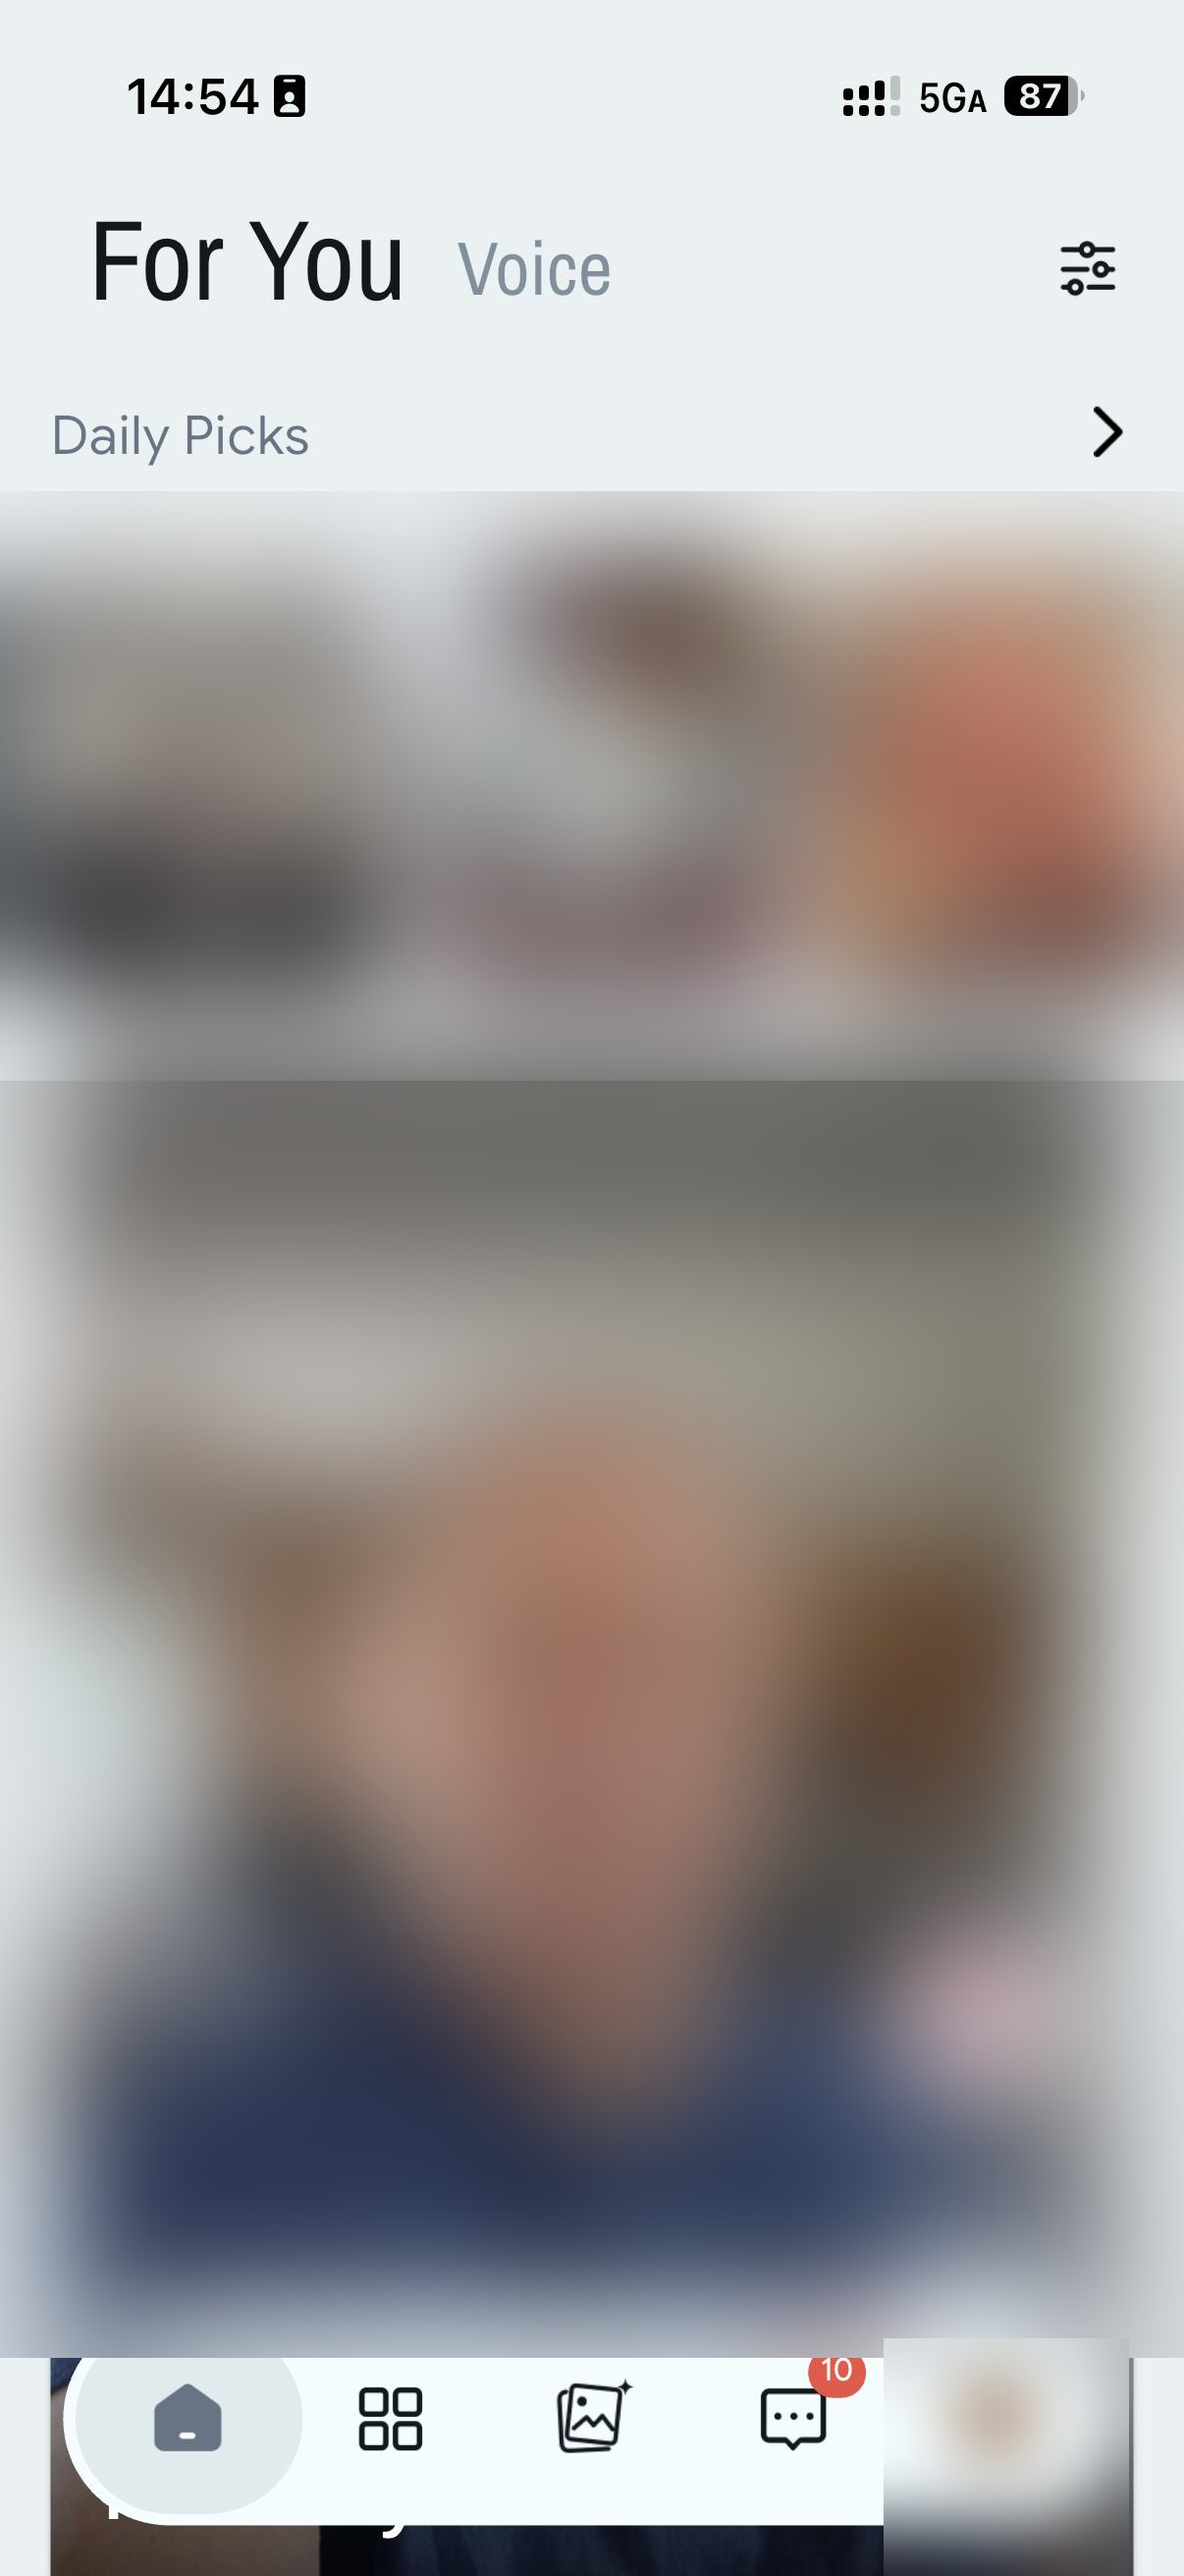
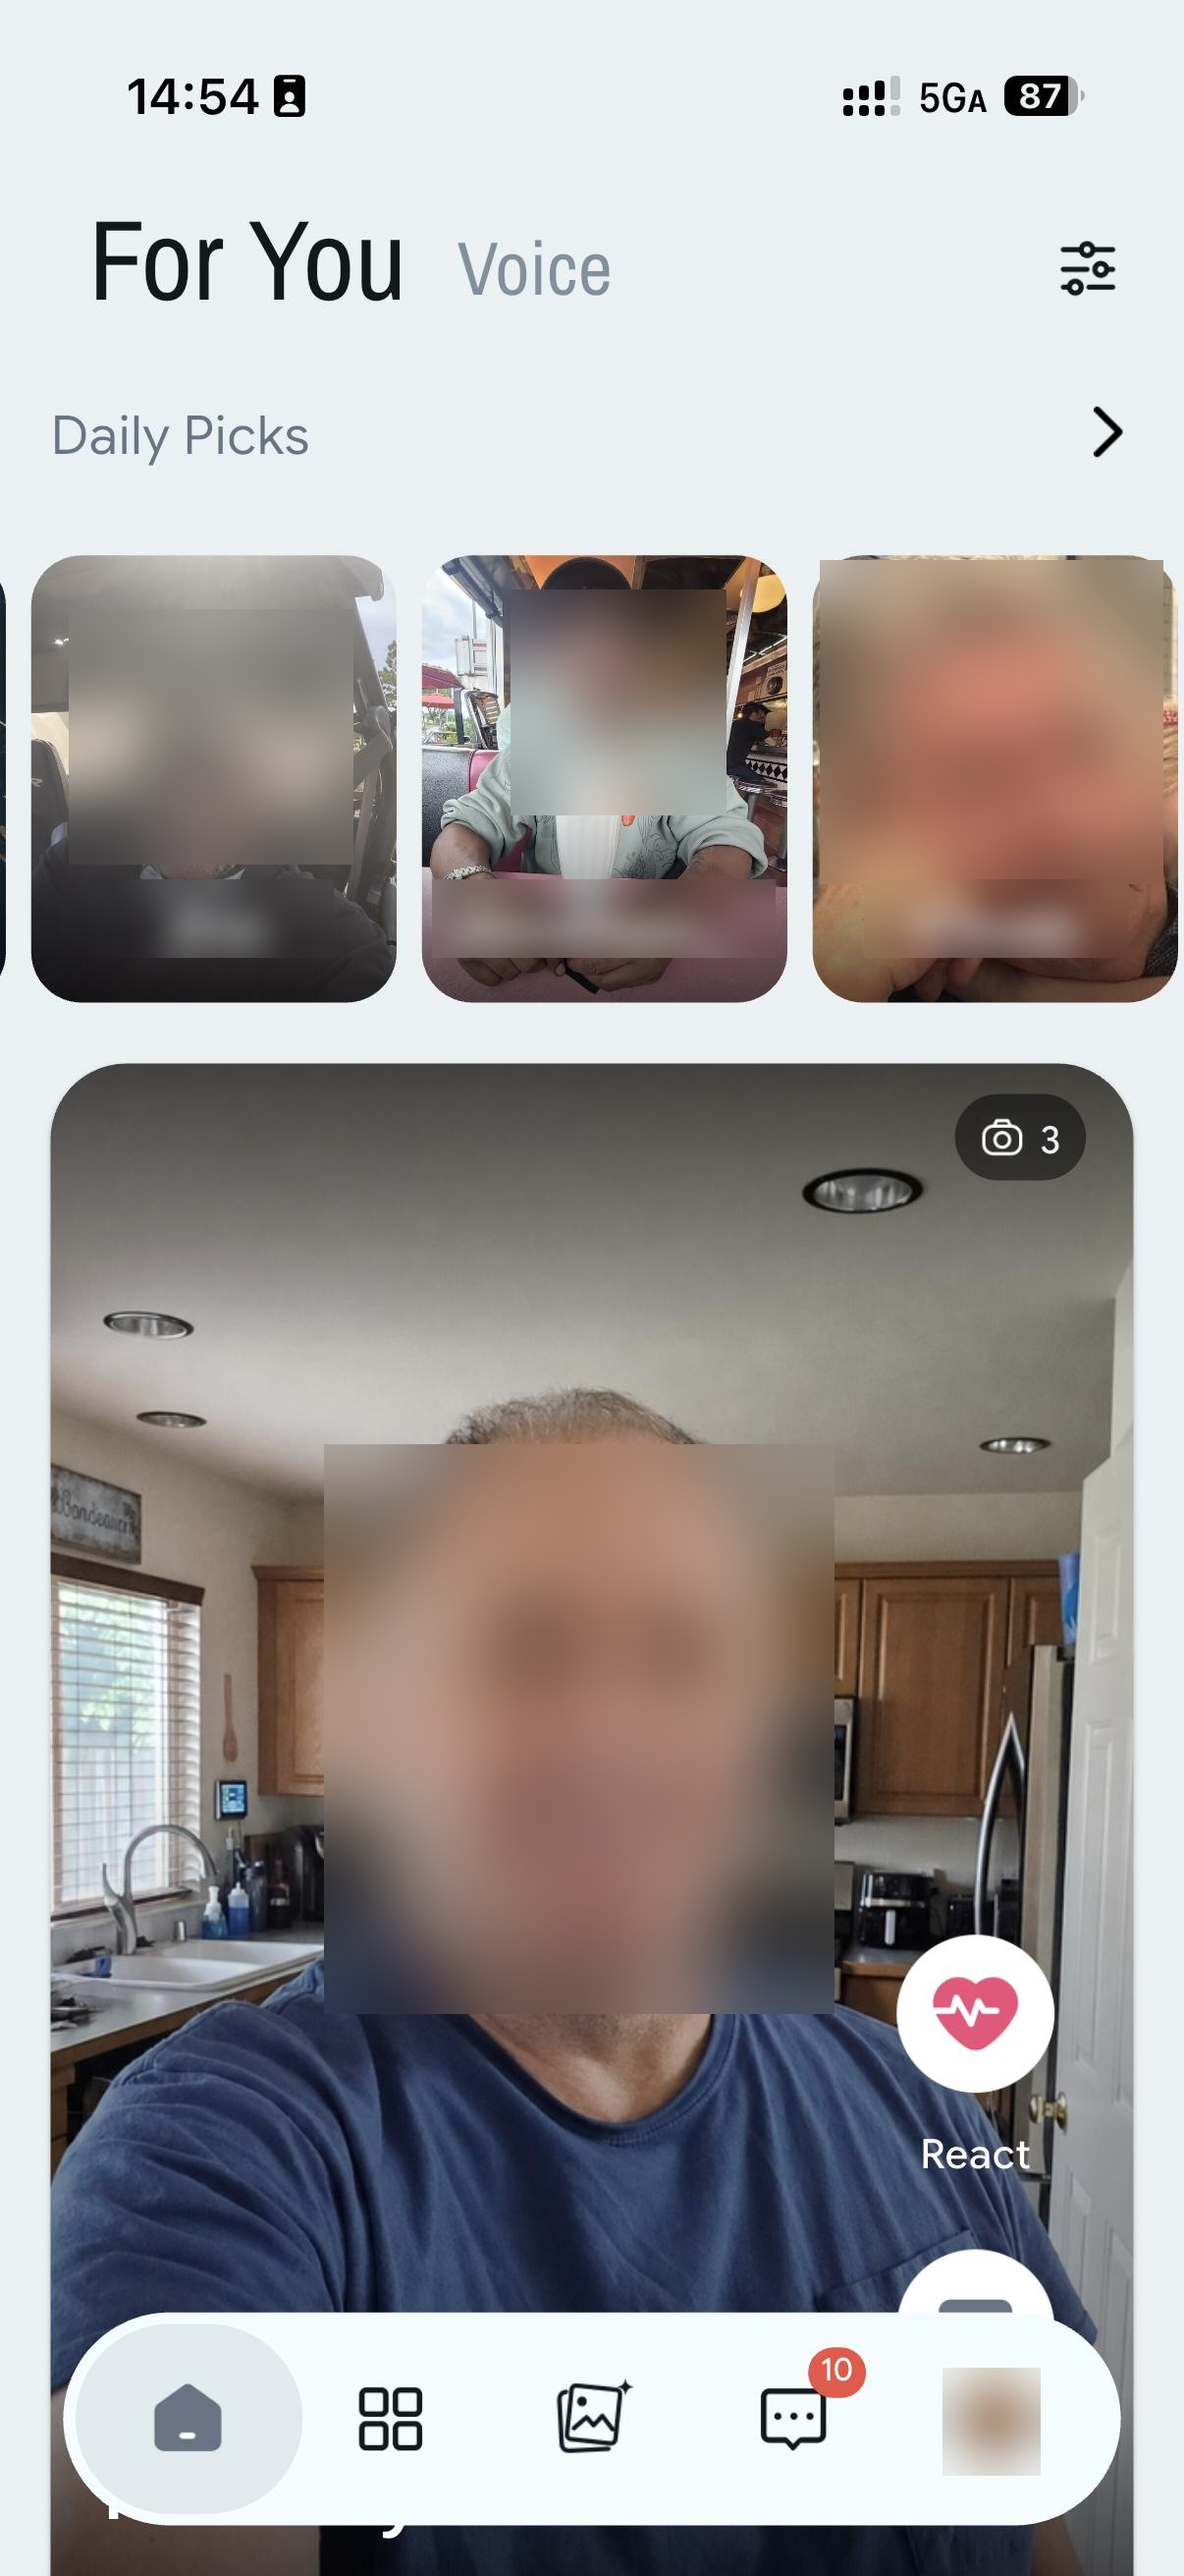
fix(ui-assets): apply surgical de-identification to preserve UI contours, verification badges, and meetup card outlines

diff --git a/scratch/mask_and_prepare_ui.py b/scratch/mask_and_prepare_ui.py
@@ -5,50 +5,71 @@ src_dir = r"C:\Users\95714\Desktop\ios UI"
 out_dir = r"c:\Users\95714\Desktop\第二次建站\assets\ui"
 os.makedirs(out_dir, exist_ok=True)
 
-def blur_box(img, box, radius=55):
+def blur_box(img, box, radius=35):
     # box is (x1, y1, x2, y2)
-    crop = img.crop(box)
+    x1, y1, x2, y2 = box
+    crop = img.crop((x1, y1, x2, y2))
     blurred = crop.filter(ImageFilter.GaussianBlur(radius))
-    img.paste(blurred, box)
+    img.paste(blurred, (x1, y1, x2, y2))
 
-# 1. UI01: Daily Picks + For You
+# 1. UI01: For You & Daily Picks (preserves top 3 card borders & gaps, hero card container & camera/React badges)
 if os.path.exists(os.path.join(src_dir, "UI01.jpg")):
     im1 = Image.open(os.path.join(src_dir, "UI01.jpg")).convert("RGB")
-    # Blur top 3 cards edge-to-edge (photos + usernames Jrm, Jonathan, Cliveb)
-    blur_box(im1, (0, 500, 1206, 1140), radius=55)
-    # Blur hero card man photo completely edge-to-edge
-    blur_box(im1, (0, 1100, 1206, 2400), radius=60)
-    # Blur bottom navigation avatar
-    blur_box(im1, (900, 2380, 1150, 2622), radius=35)
+    # Card 1 (Jrm): face & name inside card
+    blur_box(im1, (70, 620, 360, 880), radius=28)
+    blur_box(im1, (90, 895, 340, 975), radius=16)
+    # Card 2 (Jonathan...): face & name inside card
+    blur_box(im1, (520, 600, 740, 830), radius=28)
+    blur_box(im1, (440, 895, 790, 975), radius=16)
+    # Card 3 (Cliveb): face & name inside card
+    blur_box(im1, (835, 570, 1185, 900), radius=28)
+    blur_box(im1, (880, 895, 1150, 975), radius=16)
+    # Hero card: man's face only (leaves card corners, kitchen background, camera 3 badge, and React button intact)
+    blur_box(im1, (330, 1470, 850, 2050), radius=38)
+    # Bottom nav avatar
+    blur_box(im1, (960, 2410, 1060, 2520), radius=25)
     im1.save(os.path.join(out_dir, "ui01-for-you.jpg"), quality=95)
-    print("Processed ui01-for-you.jpg (Edge-to-edge masked)")
+    print("Processed ui01-for-you.jpg (Precision masked)")
 
-# 2. UI02: Daily Picks for Today
+# 2. UI02: Daily Picks for Today (preserves card outlines, gutter, milkshake/diner background, and green checkmark badges)
 if os.path.exists(os.path.join(src_dir, "UI02.jpg")):
     im2 = Image.open(os.path.join(src_dir, "UI02.jpg")).convert("RGB")
-    # Full width across both cards, photos, names, and locations
-    blur_box(im2, (0, 680, 1206, 2150), radius=55)
+    # Left card face inside card
+    blur_box(im2, (0, 970, 270, 1440), radius=35)
+    # Left name ...anheart (preserves green checkmark at 255-320!)
+    blur_box(im2, (0, 1950, 245, 2045), radius=18)
+    # Left location
+    blur_box(im2, (0, 2055, 500, 2145), radius=18)
+    # Right card face inside card
+    blur_box(im2, (585, 920, 1180, 1850), radius=40)
+    # Right name Cliveb (preserves green checkmark at 940-1015!)
+    blur_box(im2, (620, 1950, 935, 2045), radius=18)
+    # Right location
+    blur_box(im2, (580, 2055, 1206, 2145), radius=18)
     im2.save(os.path.join(out_dir, "ui02-daily-picks.jpg"), quality=95)
-    print("Processed ui02-daily-picks.jpg (Edge-to-edge masked)")
+    print("Processed ui02-daily-picks.jpg (Precision masked)")
 
-# 3. UI03: Voice Globe
+# 3. UI03: Voice Globe (nav avatar masked)
 if os.path.exists(os.path.join(src_dir, "UI03.PNG")):
     im3 = Image.open(os.path.join(src_dir, "UI03.PNG")).convert("RGBA")
-    blur_box(im3, (900, 2380, 1150, 2622), radius=35)
+    blur_box(im3, (960, 2410, 1060, 2520), radius=25)
     im3.save(os.path.join(out_dir, "ui03-voice.png"))
-    print("Processed ui03-voice.png (Edge-to-edge masked)")
+    print("Processed ui03-voice.png (Precision masked)")
 
-# 4. UI04: 1-on-1 Coffee & Tea Event
+# 4. UI04: 1-on-1 Meetups (preserves Card 1 outline, Oct 3 date badge, Host badges, inter-card gap, Card 2 outline, Oct 4 date badge, Music & Concerts badge)
 if os.path.exists(os.path.join(src_dir, "UI04.jpg")):
     im4 = Image.open(os.path.join(src_dir, "UI04.jpg")).convert("RGB")
-    # YUMI (Host) avatar and name
-    blur_box(im4, (50, 700, 600, 900), radius=45)
-    # Location Sendai, Miyagi, JPN
-    blur_box(im4, (50, 1450, 650, 1640), radius=45)
-    # Entire lower card edge-to-edge (ACHIEVER111 Host + face photo)
-    blur_box(im4, (0, 1600, 1206, 2622), radius=65)
+    # Card 1 avatar & YUMI (preserves Host badge at 585-900 & Oct 3 badge)
+    blur_box(im4, (130, 710, 240, 800), radius=25)
+    blur_box(im4, (270, 720, 570, 790), radius=18)
+    blur_box(im4, (100, 1640, 500, 1705), radius=18)
+    # Card 2 avatar & ACHIEVER111 (preserves Host badge at 820-980 & Oct 4 badge)
+    blur_box(im4, (130, 1900, 230, 2000), radius=25)
+    blur_box(im4, (270, 1915, 810, 1985), radius=18)
+    # Card 2 face inside card (preserves card borders and bottom Music & Concerts badge)
+    blur_box(im4, (70, 2010, 1130, 2550), radius=38)
     im4.save(os.path.join(out_dir, "ui04-coffee-event.jpg"), quality=95)
-    print("Processed ui04-coffee-event.jpg (Edge-to-edge masked)")
+    print("Processed ui04-coffee-event.jpg (Precision masked)")
 
 # 5. UI05: Filters (Age 50-99)
 if os.path.exists(os.path.join(src_dir, "UI05.PNG")):
@@ -56,26 +77,28 @@ if os.path.exists(os.path.join(src_dir, "UI05.PNG")):
     im5.save(os.path.join(out_dir, "ui05-filters.png"))
     print("Processed ui05-filters.png")
 
-# 6. UI06: Profile View
+# 6. UI06: Profiles (preserves restaurant scene, Online Recently badge, checkmark badge next to Russ, Photos/About Me tabs, React/Say Hi buttons)
 if os.path.exists(os.path.join(src_dir, "UI06.jpg")):
     im6 = Image.open(os.path.join(src_dir, "UI06.jpg")).convert("RGB")
-    # Top restaurant photo edge-to-edge
-    blur_box(im6, (0, 0, 1206, 950), radius=60)
-    # Russ name and location edge-to-edge
-    blur_box(im6, (0, 950, 1206, 1500), radius=45)
-    # Bottom outdoor photo behind React & Say Hi edge-to-edge
-    blur_box(im6, (0, 1500, 1206, 2622), radius=60)
+    # Top photo face only (preserves restaurant, OHIO T-shirt, and Online Recently badge)
+    blur_box(im6, (320, 0, 780, 420), radius=38)
+    # Name Russ only (preserves checkmark badge at 225-280!)
+    blur_box(im6, (40, 1240, 225, 1330), radius=18)
+    # Location lines
+    blur_box(im6, (40, 1360, 1050, 1560), radius=18)
+    # Bottom outdoor face (preserves React & Say Hi buttons)
+    blur_box(im6, (350, 2420, 600, 2622), radius=30)
     im6.save(os.path.join(out_dir, "ui06-profile.jpg"), quality=95)
-    print("Processed ui06-profile.jpg (Edge-to-edge masked)")
+    print("Processed ui06-profile.jpg (Precision masked)")
 
-# 7. UI07: Conversation Starters
+# 7. UI07: Conversation Starters (preserves back button, prompt cards, text box)
 if os.path.exists(os.path.join(src_dir, "UI07.PNG")):
     im7 = Image.open(os.path.join(src_dir, "UI07.PNG")).convert("RGBA")
-    # Top header username Angelo
-    blur_box(im7, (150, 200, 700, 450), radius=45)
-    # Message avatar edge-to-edge
-    blur_box(im7, (0, 700, 250, 1020), radius=40)
+    # Header username Angelo
+    blur_box(im7, (340, 230, 650, 320), radius=20)
+    # Message avatar
+    blur_box(im7, (70, 490, 270, 690), radius=30)
     im7.save(os.path.join(out_dir, "ui07-conversation-starters.png"))
-    print("Processed ui07-conversation-starters.png (Edge-to-edge masked)")
+    print("Processed ui07-conversation-starters.png (Precision masked)")
 
-print("All 7 assets thoroughly masked with edge-to-edge coverage.")
+print("All 7 assets thoroughly masked with precision UI outline retention.")
